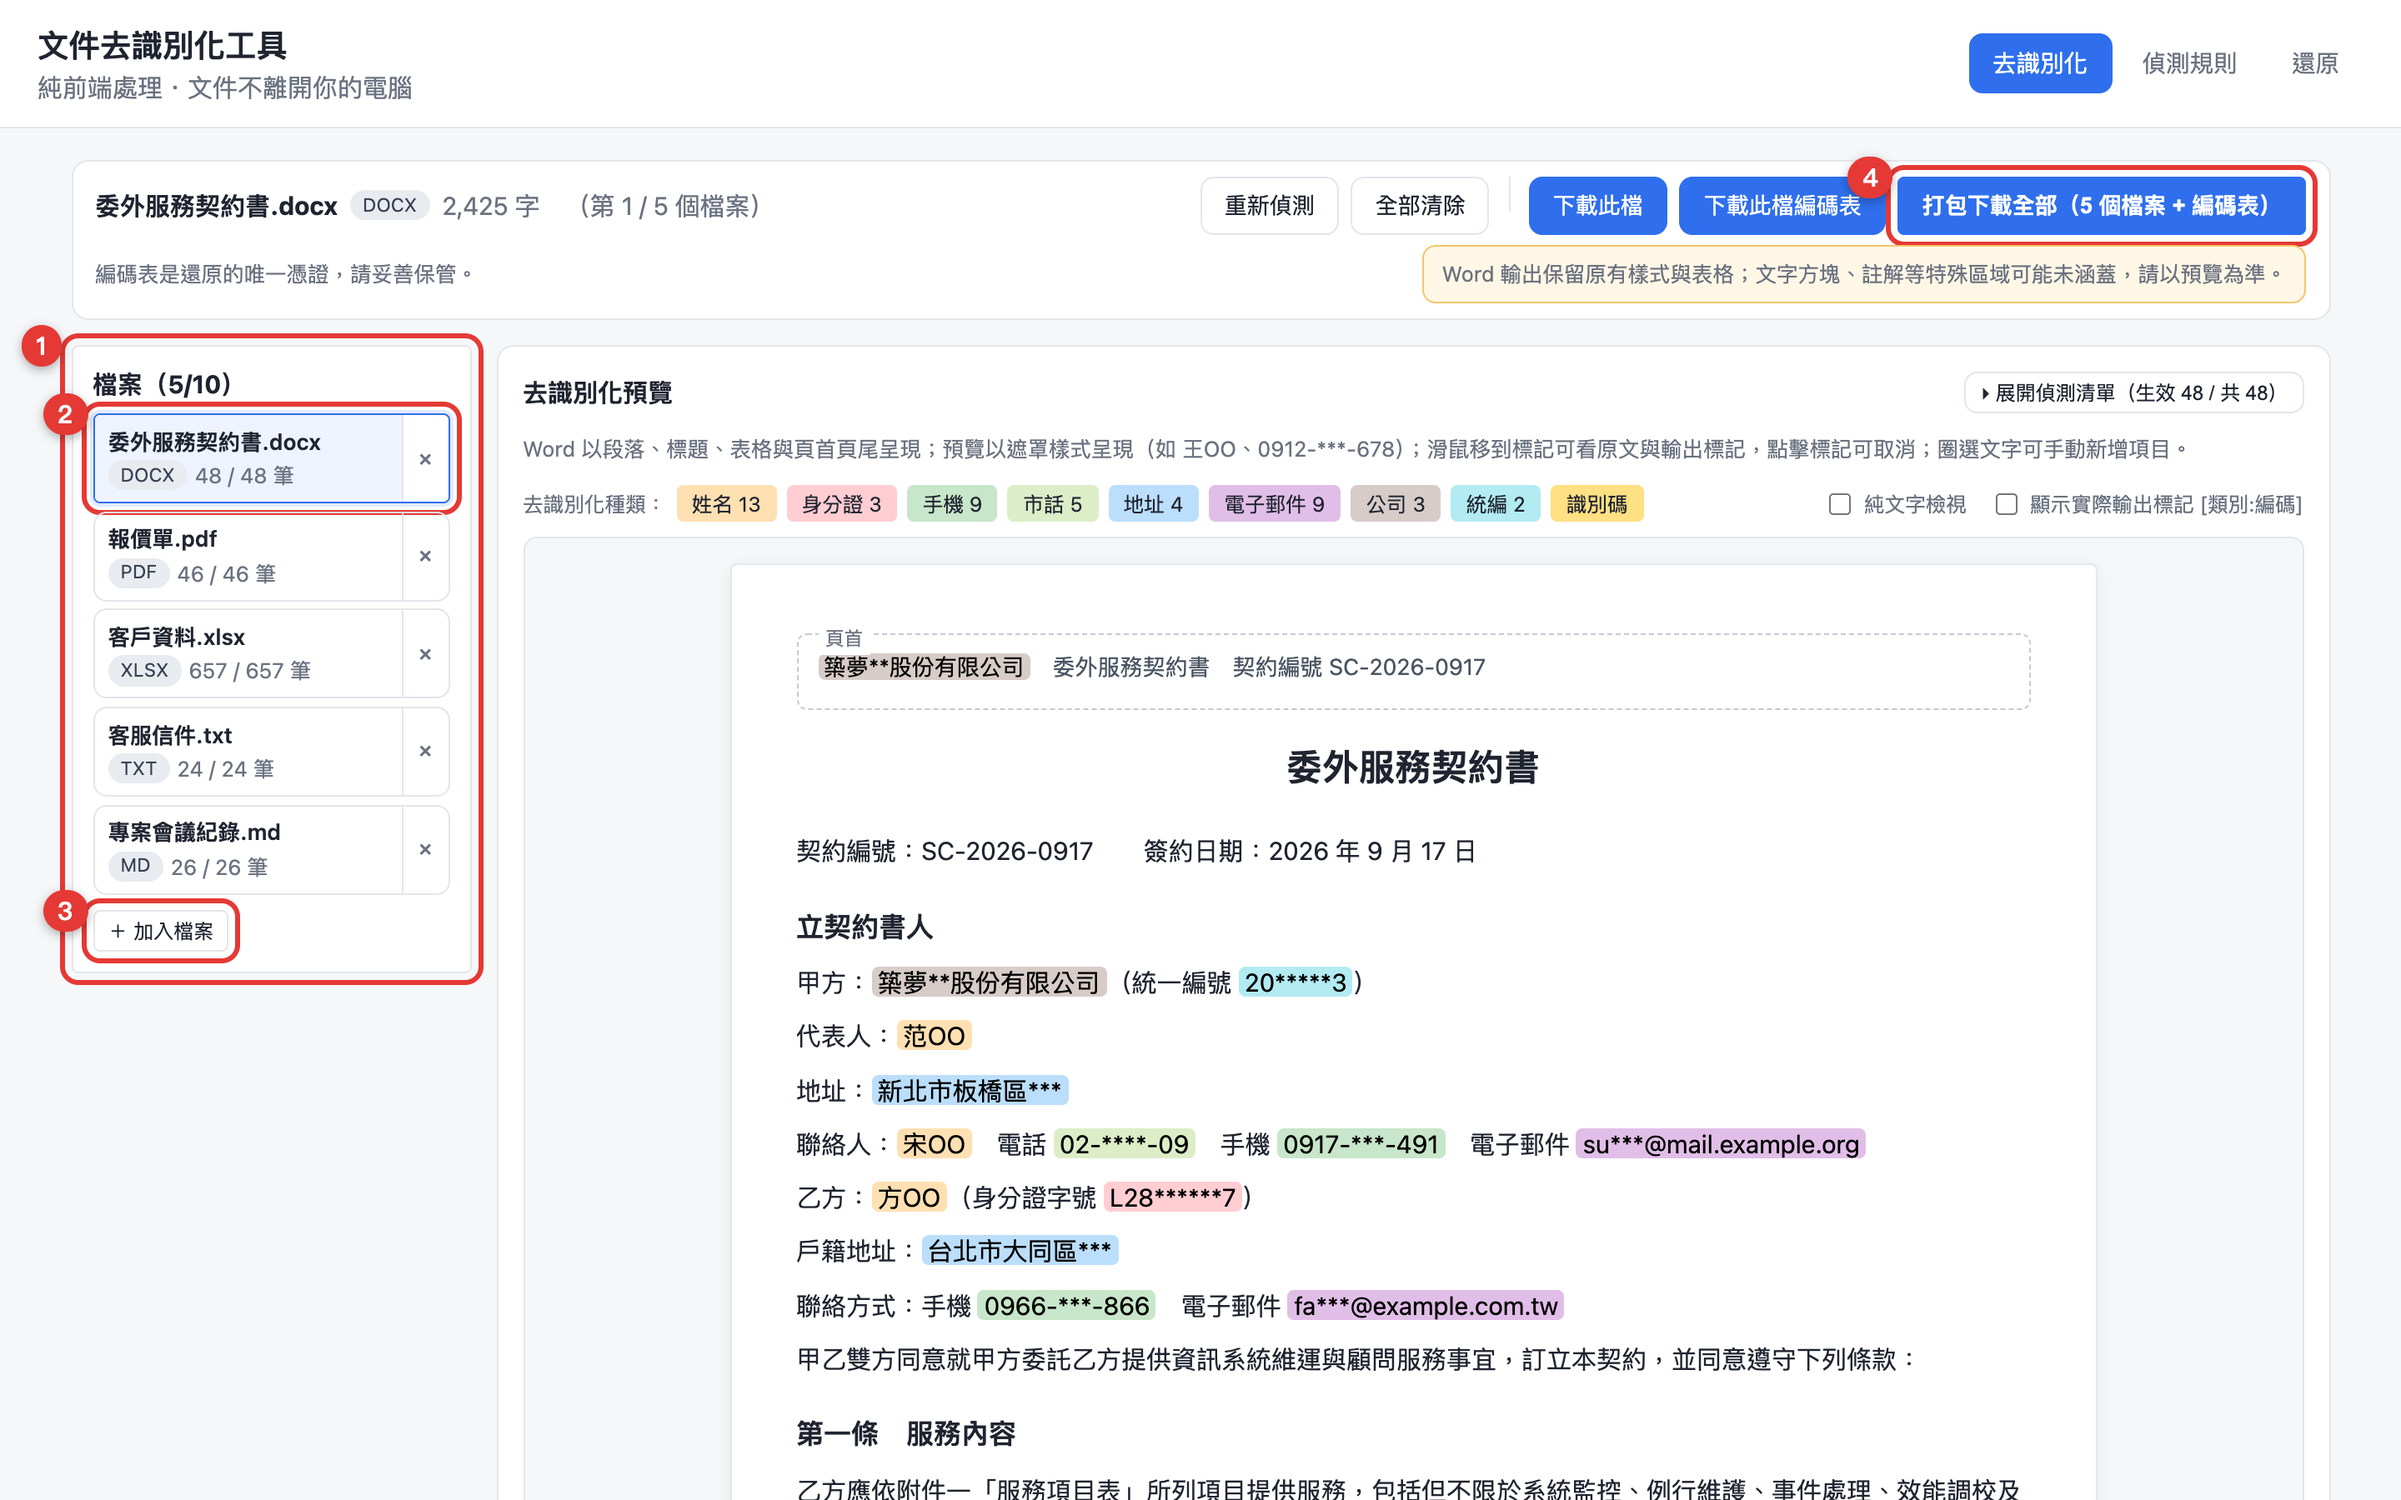
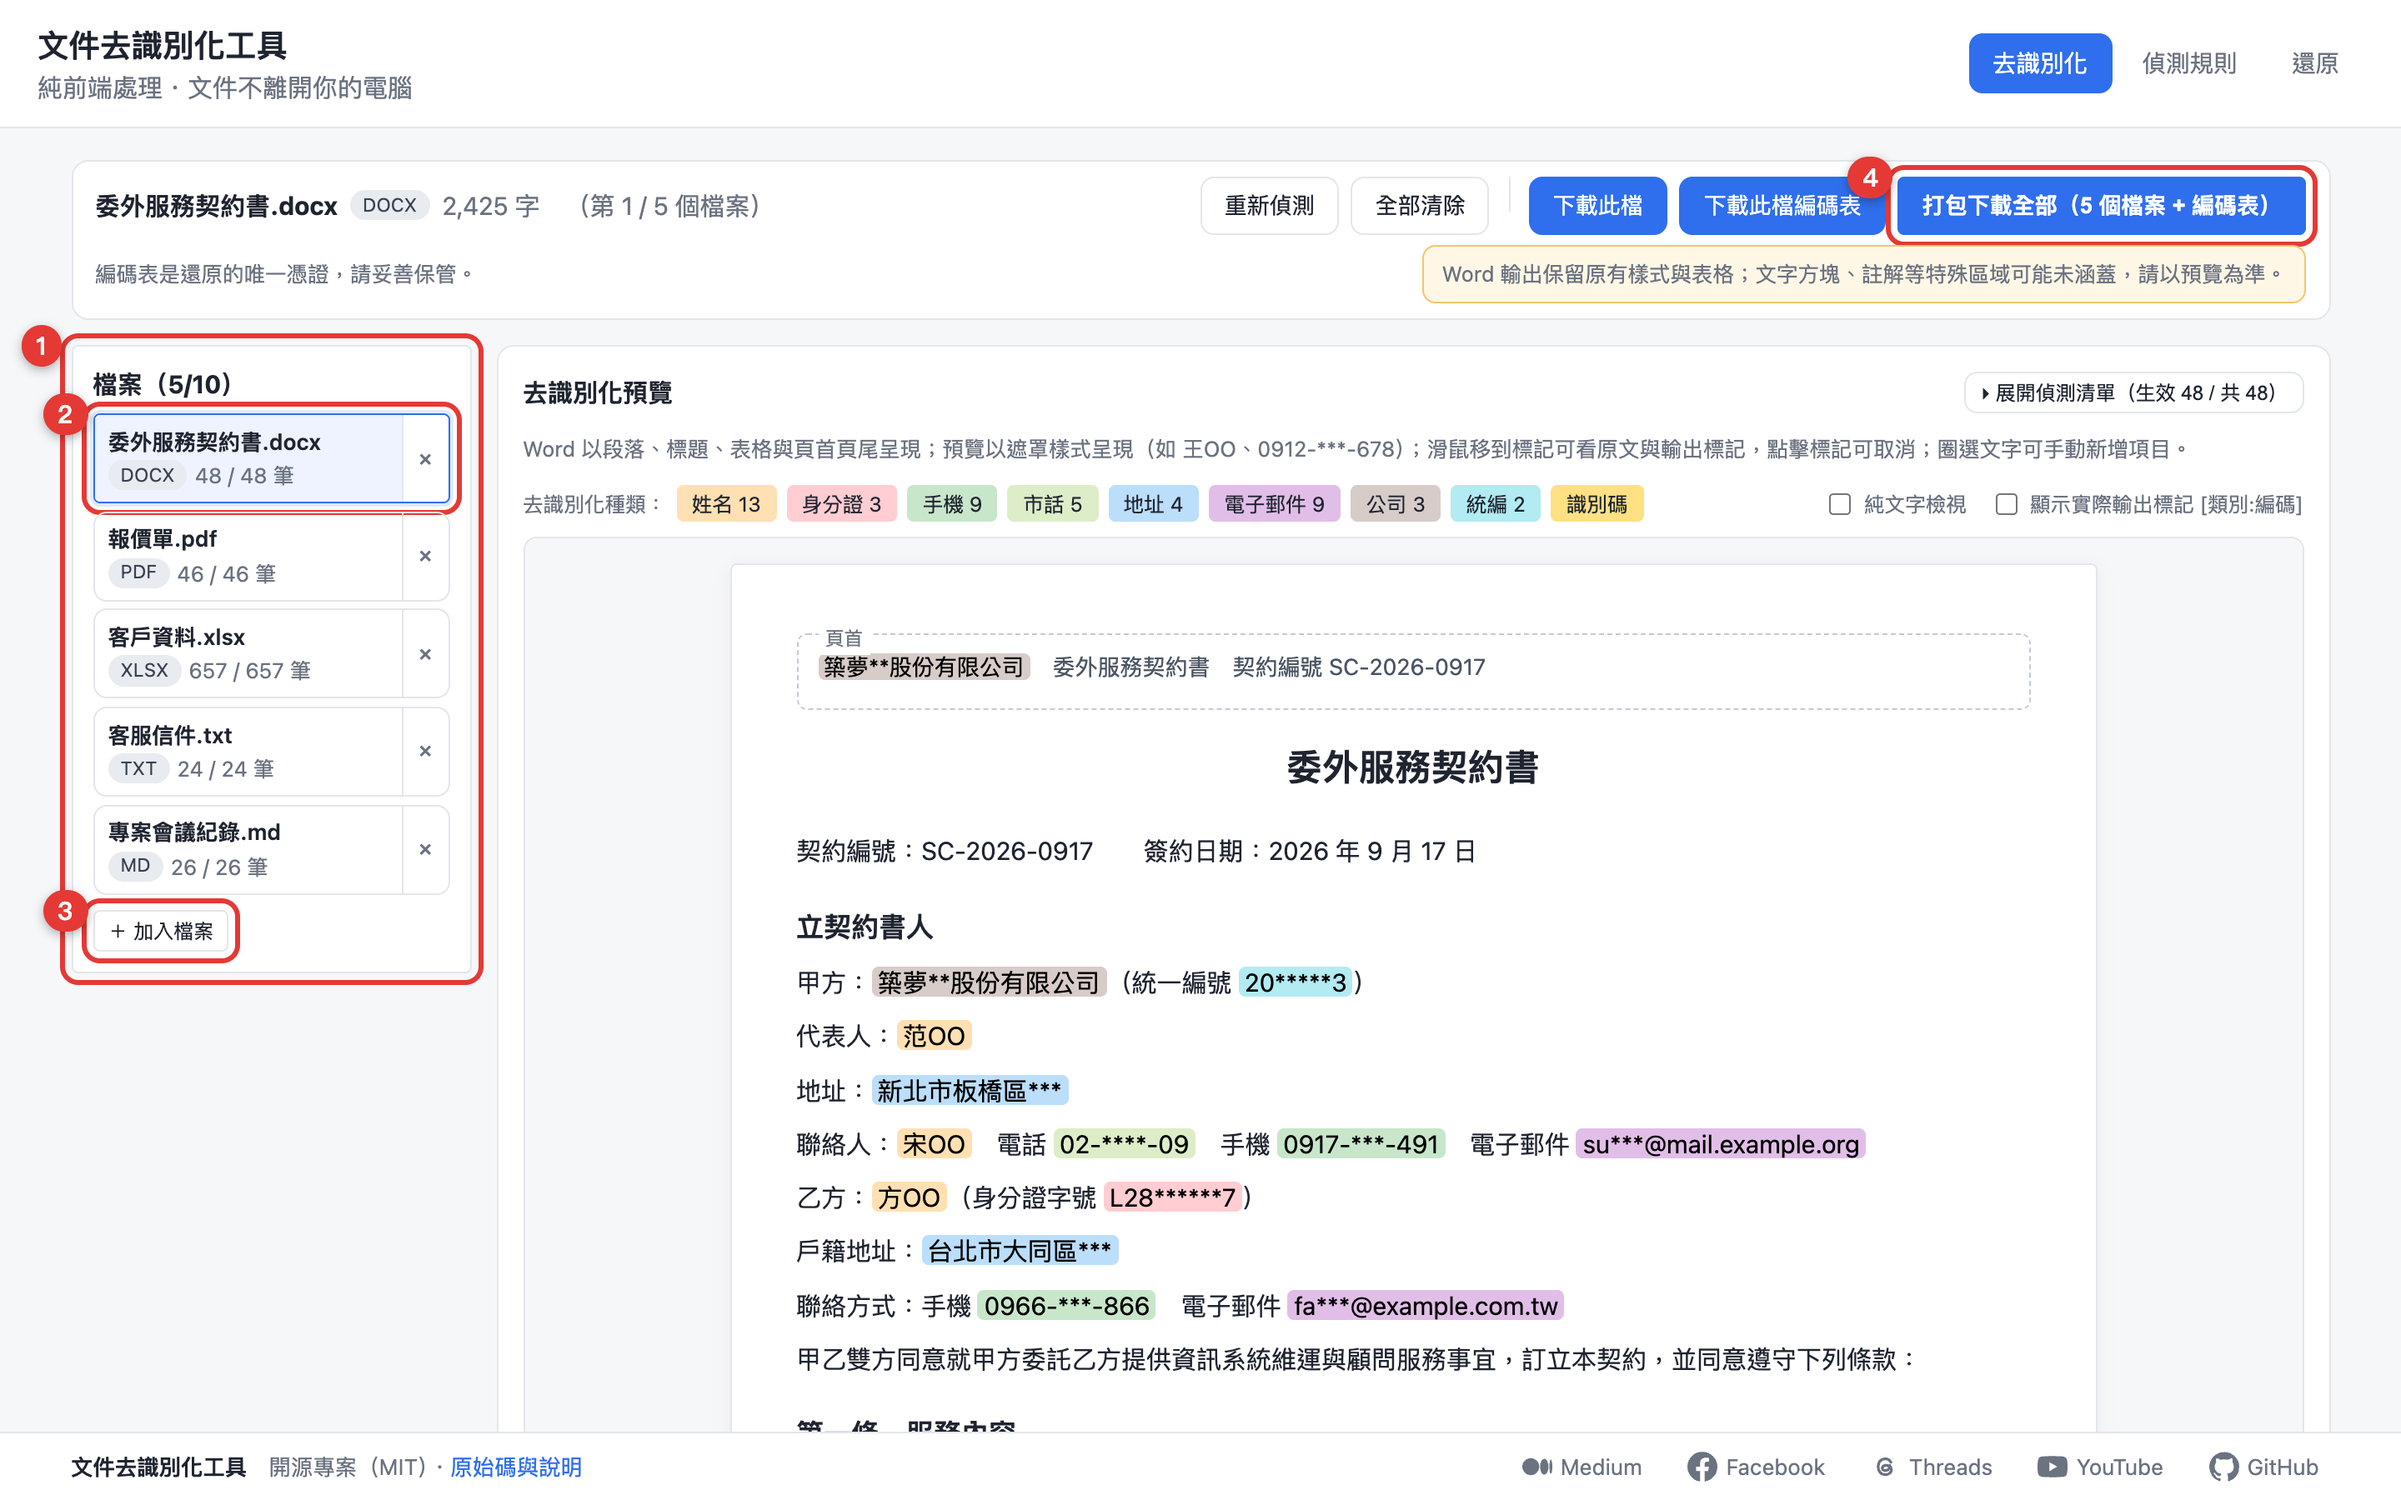
fix(ui): Excel 預覽於容器內橫向捲動不撐破版面；頁尾常駐並移除作者前綴
grid 欄位改為 minmax(0, 1fr) 並讓預覽容器 min-width: 0，寬表格改在 .sheet-scroll 內捲動。
Footer 改為 sticky bottom，toast 上移避免重疊。

Claude-Session: https://claude.ai/code/session_01Pe1NHyFC7pEQCDo9j3U4g2

Changed region(s): [[0.3125, 0.9333, 0.9688, 1.0], [0.0312, 0.9644, 0.1562, 0.9956], [0.1875, 0.9644, 0.25, 0.9956]]

diff --git a/src/styles.css b/src/styles.css
@@ -79,7 +79,7 @@ code { font-family: ui-monospace, SFMono-Regular, Menlo, Consolas, monospace; fo
 .file-info { display: flex; align-items: center; gap: 0.5rem; }
 .toolbar-actions { display: flex; gap: 0.5rem; }
 
-.workspace { display: grid; grid-template-columns: 1fr; gap: 1rem; align-items: start; }
+.workspace { display: grid; grid-template-columns: minmax(0, 1fr); gap: 1rem; align-items: start; }
 .workspace.workspace-with-list { grid-template-columns: minmax(0, 2fr) minmax(300px, 1fr); }
 @media (max-width: 900px) { .workspace.workspace-with-list { grid-template-columns: 1fr; } }
 .preview-head { display: flex; align-items: center; justify-content: space-between; gap: 0.5rem; flex-wrap: wrap; }
@@ -89,9 +89,9 @@ code { font-family: ui-monospace, SFMono-Regular, Menlo, Consolas, monospace; fo
 .toolbar-sep { width: 1px; height: 1.4rem; background: var(--border); margin: 0 0.25rem; }
 .notice-inline { padding: 0.15rem 0.5rem; }
 .btn-danger-solid { background: var(--danger); border-color: var(--danger); color: #fff; }
-.preview-wrap, .sidebar { background: var(--surface); border: 1px solid var(--border); border-radius: 10px; padding: 1rem; }
+.preview-wrap, .sidebar { background: var(--surface); border: 1px solid var(--border); border-radius: 10px; padding: 1rem; min-width: 0; }
 .preview {
-  white-space: pre-wrap; word-break: break-word; line-height: 1.75; max-height: 70vh; overflow: auto;
+  white-space: pre-wrap; word-break: break-word; line-height: 1.75; max-height: 70vh; overflow: auto; max-width: 100%;
   padding: 0.75rem; border: 1px solid var(--border); border-radius: 8px; background: #fcfcfd;
 }
 .sidebar { position: sticky; top: 4.5rem; max-height: calc(100vh - 5.5rem); overflow: auto; }
@@ -183,7 +183,7 @@ code { font-family: ui-monospace, SFMono-Regular, Menlo, Consolas, monospace; fo
 .file-chip { display: flex; align-items: center; justify-content: space-between; gap: 0.5rem; border: 1px solid var(--border); border-radius: 8px; padding: 0.5rem 0.7rem; }
 .restore-result .preview { max-height: 60vh; }
 
-.toast-host { position: fixed; right: 1rem; bottom: 1rem; display: flex; flex-direction: column; gap: 0.5rem; z-index: 50; max-width: 380px; }
+.toast-host { position: fixed; right: 1rem; bottom: 3.6rem; display: flex; flex-direction: column; gap: 0.5rem; z-index: 50; max-width: 380px; }
 .toast { background: #1f2430; color: #fff; padding: 0.6rem 0.9rem; border-radius: 8px; font-size: 0.9rem; box-shadow: 0 6px 20px rgba(0,0,0,0.2); }
 .toast-error { background: var(--danger); }
 .toast-success { background: #2e9e5b; }
@@ -231,7 +231,7 @@ code { font-family: ui-monospace, SFMono-Regular, Menlo, Consolas, monospace; fo
 .sheet-tabs { display: flex; gap: 0.25rem; flex-wrap: wrap; margin-bottom: 0.5rem; }
 .sheet-tab { border: 1px solid var(--border); background: var(--surface); border-radius: 6px 6px 0 0; padding: 0.3rem 0.8rem; cursor: pointer; font-size: 0.85rem; color: var(--muted); }
 .sheet-tab.active { color: var(--text); border-bottom-color: var(--surface); background: #fff; font-weight: 600; }
-.sheet-scroll { overflow: auto; max-height: 62vh; background: #fff; border: 1px solid var(--border); }
+.sheet-scroll { overflow: auto; max-height: 62vh; max-width: 100%; background: #fff; border: 1px solid var(--border); }
 .sheet-table { border-collapse: collapse; font-size: 0.85rem; white-space: nowrap; }
 .sheet-table th { position: sticky; top: 0; background: #eef0f4; color: var(--muted); font-weight: 600; border: 1px solid #d5d9e0; padding: 0.2rem 0.5rem; text-align: center; z-index: 1; }
 .sheet-table tr > th:first-child { position: sticky; left: 0; z-index: 2; }
@@ -246,6 +246,7 @@ code { font-family: ui-monospace, SFMono-Regular, Menlo, Consolas, monospace; fo
 
 /* Multi-file panel */
 .workspace.workspace-with-files { grid-template-columns: 240px minmax(0, 1fr); }
+.workspace > * { min-width: 0; }
 .workspace.workspace-with-files.workspace-with-list { grid-template-columns: 240px minmax(0, 2fr) minmax(300px, 1fr); }
 @media (max-width: 1100px) { .workspace.workspace-with-files, .workspace.workspace-with-files.workspace-with-list { grid-template-columns: 1fr; } }
 .file-panel { background: var(--surface); border: 1px solid var(--border); border-radius: 10px; padding: 0.8rem; position: sticky; top: 4.5rem; }
@@ -273,13 +274,13 @@ code { font-family: ui-monospace, SFMono-Regular, Menlo, Consolas, monospace; fo
 a.btn { text-decoration: none; display: inline-flex; align-items: center; }
 
 /* Footer */
-.footer { border-top: 1px solid var(--border); background: var(--surface); margin-top: 2rem; }
-.footer-inner { max-width: 1400px; margin: 0 auto; padding: 1rem 1.5rem; display: flex; justify-content: space-between; align-items: center; gap: 1rem; flex-wrap: wrap; font-size: 0.88rem; }
+.footer { border-top: 1px solid var(--border); background: var(--surface); position: sticky; bottom: 0; z-index: 4; }
+.footer-inner { max-width: 1400px; margin: 0 auto; padding: 0.55rem 1.5rem; display: flex; justify-content: space-between; align-items: center; gap: 1rem; flex-wrap: wrap; font-size: 0.88rem; }
 .footer a { color: var(--primary); text-decoration: none; }
 .footer a:hover { text-decoration: underline; }
 .footer-social { display: flex; gap: 0.9rem; flex-wrap: wrap; align-items: center; }
 #app { min-height: 100vh; display: flex; flex-direction: column; }
-.panels { flex: 1; width: 100%; }
+.panels { flex: 1; width: 100%; min-width: 0; padding-bottom: 4rem; }
 
 /* Compact sample row */
 .samples-head { display: flex; align-items: baseline; gap: 0.75rem; flex-wrap: wrap; margin-bottom: 0.6rem; }

diff --git a/src/main.ts b/src/main.ts
@@ -73,7 +73,6 @@ function mount(): void {
           el('a', { href: 'https://github.com/dean9703111/data-deidentification', target: '_blank', rel: 'noopener' }, '原始碼與說明'),
         ),
         el('div', { class: 'footer-social' },
-          el('span', { class: 'muted' }, 'Dean Lin：'),
           ...social.map(([name, url, icon]) => {
             const a = el('a', { class: 'social-link', href: url, target: '_blank', rel: 'noopener', title: name, 'aria-label': name });
             a.innerHTML = icon;
